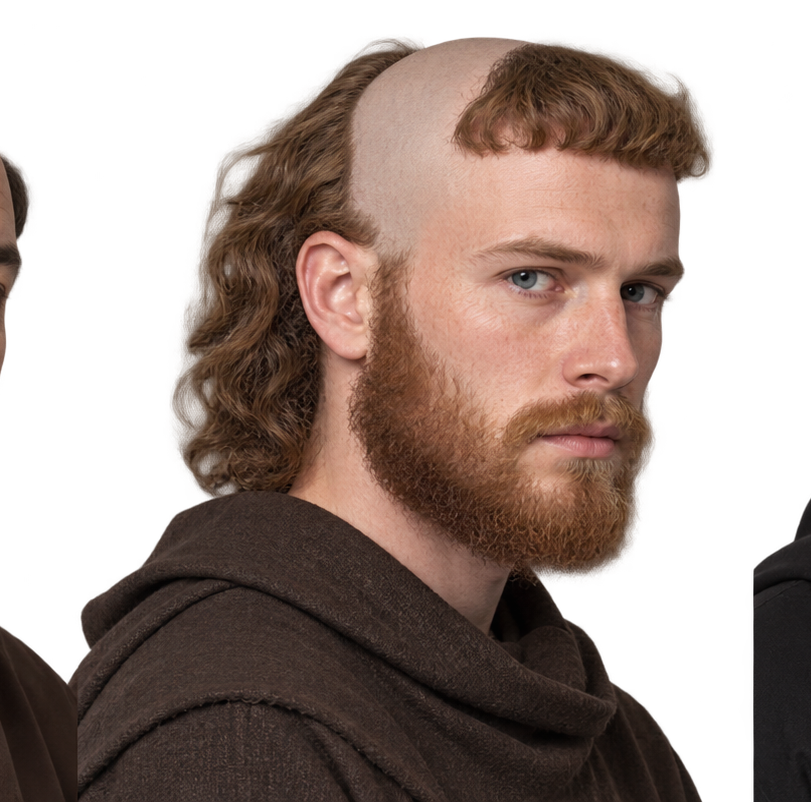
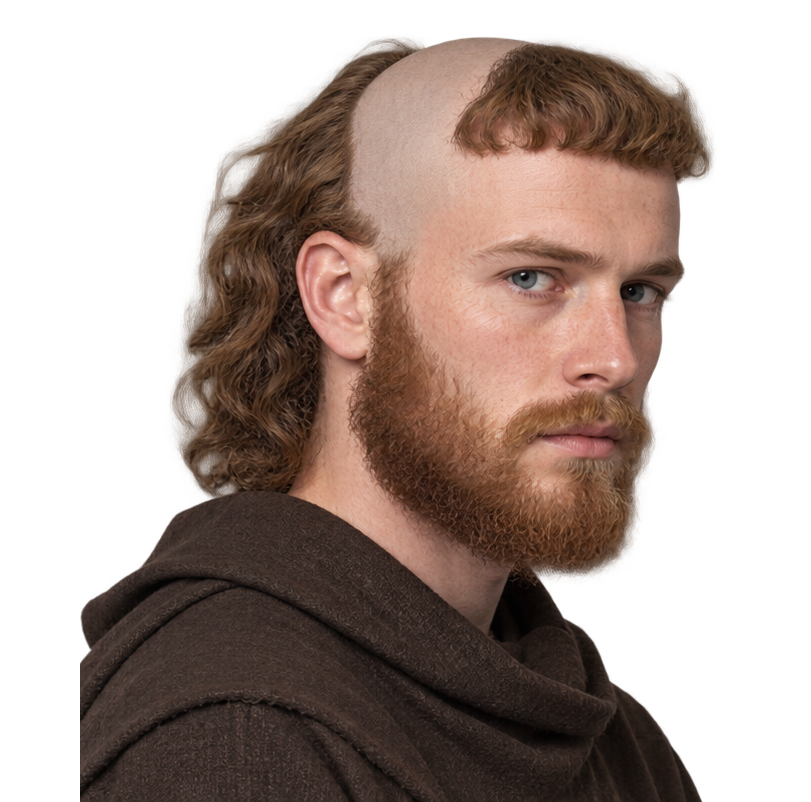
fix(media): isolate Celtic tonsure portrait from edge figures

Changed region(s): [[0.9248, 0.6234, 1.0, 1.0], [0.0, 0.7793, 0.1233, 1.0], [0.0, 0.187, 0.0617, 0.4676]]

diff --git a/docs/media/hairstyle-image-prompts.md b/docs/media/hairstyle-image-prompts.md
@@ -252,7 +252,7 @@ Square PNG with a genuinely transparent RGBA background. Understated contemporar
 
 Asset: `src/content/assets/hairstyles/monastic-tonsure-celtic.png`
 
-Square PNG with a genuinely transparent RGBA background. Understated contemporary editorial portrait photography of one fictional fair-skinned man in his late 20s to early 30s with freckles and reddish-brown wavy hair. Show the historically described Celtic or St. John tonsure rather than a Roman crown tonsure: shave the entire front portion of the head from the forehead backward to a clear boundary running approximately from ear to ear, while leaving substantially longer natural hair on the rear half of the scalp. The retained rear hair should remain visibly wavy and extend backward/downward, making the front-versus-rear division unmistakable. Do not leave a circular ring around the crown and do not create a mohawk or isolated strip. Use a side-to-three-quarter head-and-shoulders angle that clearly exposes the shaved frontal scalp, one ear, the ear-to-ear transition line and the longer hair behind it. Natural skin texture, restrained expression, simple neutral brown or cream clothing. No celebrity likeness, jewelry, hats, props, text, logos or watermarks. No opaque studio background or baked-in checkerboard. Clean transparent alpha edges.
+Square PNG with a genuinely transparent RGBA background. Understated contemporary editorial portrait photography of one fictional fair-skinned man in his late 20s to early 30s with freckles and reddish-brown wavy hair. Show the historically described Celtic or St. John tonsure rather than a Roman crown tonsure: shave the entire front portion of the head from the forehead backward to a clear boundary running approximately from ear to ear, while leaving substantially longer natural hair on the rear half of the scalp. The retained rear hair should remain visibly wavy and extend backward/downward, making the front-versus-rear division unmistakable. Do not leave a circular ring around the crown and do not create a mohawk or isolated strip. Use a side-to-three-quarter head-and-shoulders angle that clearly exposes the shaved frontal scalp, one ear, the ear-to-ear transition line and the longer hair behind it. Natural skin texture, restrained expression, simple neutral brown or cream clothing. No celebrity likeness, jewelry, hats, props, text, logos or watermarks. No opaque studio background or baked-in checkerboard. Clean transparent alpha edges. Exactly one person only: no additional people, partial heads, shoulders, or garments intruding from outside any edge of the image.
 
 ## side-parted-flipped-lob-east-asian-28
 
